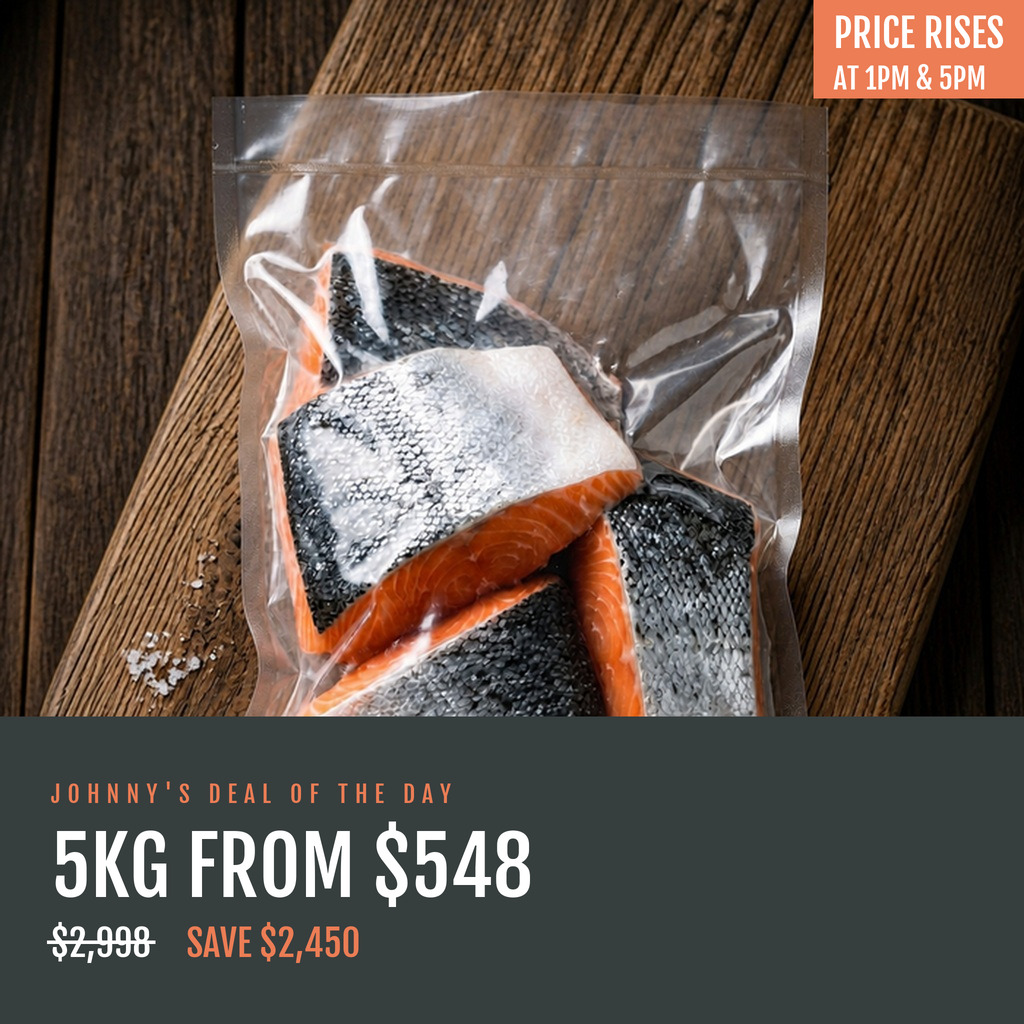
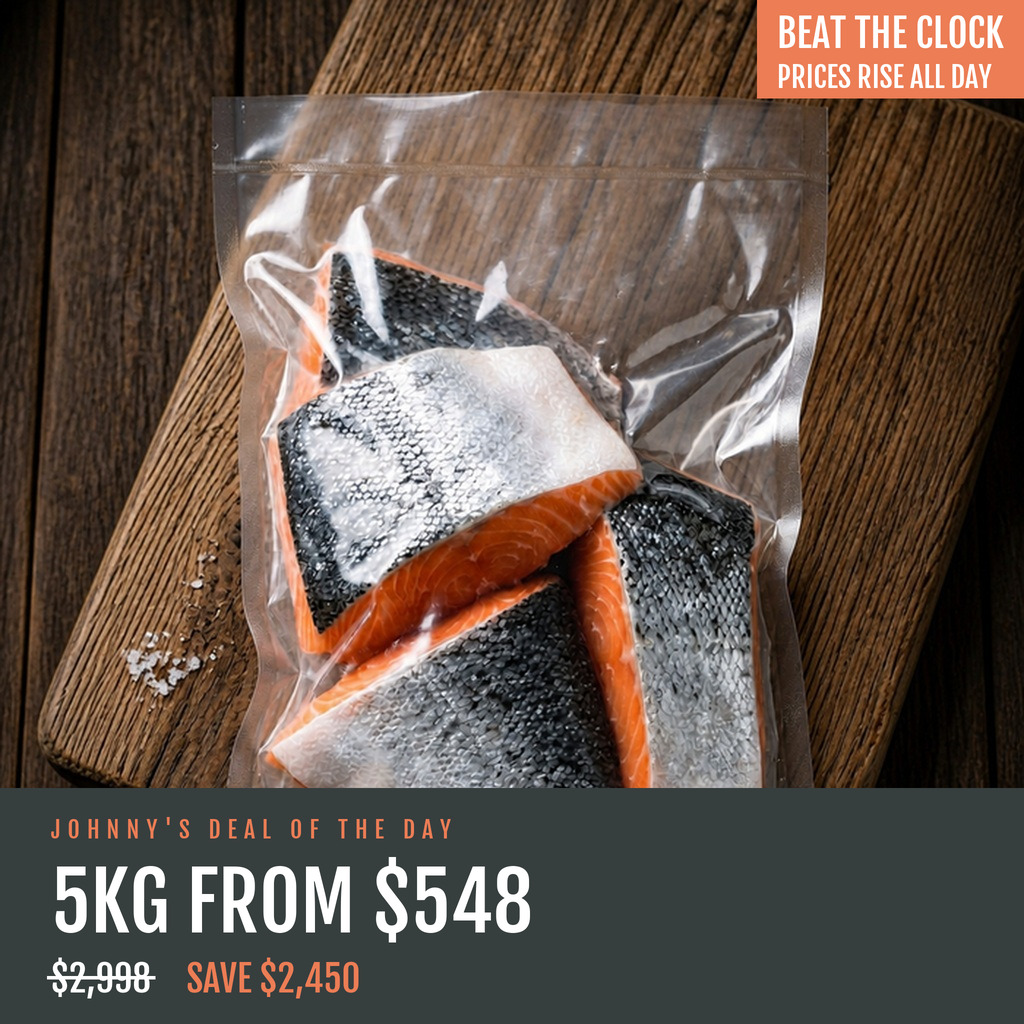
Update: heroes rebuilt so the product is the picture
Band cut from 30% to 23%, subject-aware crop so the product fills the
frame, and a guard that fails the build if a stale graphic lands in the
reserved corner. Bundle heroes now show every component. Beat the Clock
banners and stickers name the mechanic.

Changed region(s): [[0.0, 0.6875, 1.0, 0.9688], [0.7188, 0.0, 1.0, 0.0938]]

diff --git a/steak-king/johnnys-deal-planner.html b/steak-king/johnnys-deal-planner.html
@@ -574,7 +574,7 @@ const PLAN = {
                 "Straight from frozen into a hot pan skin side down, press it flat for the first minute, and leave it alone. Or cure a few pieces with salt, sugar and dill and you have your own gravlax by Thursday.",
                 "The clock is the point today. Every window you let pass costs you a hundred dollars."],
           close:"Back to $2,998 at midnight, whatever time you buy."},
-          source:'Frozen Norwegian Salmon Pieces - 1kg/5kg (5kg Box)', banner:['PRICE RISES AT 1PM on 5kg of Salmon'], clone:'5kg of Norwegian Salmon Pieces — the Price Rises at 1pm and Again at 5pm', price:'$548 → $648 → $748', compare:'$2,998'}
+          source:'Frozen Norwegian Salmon Pieces - 1kg/5kg (5kg Box)', banner:['BEAT THE CLOCK to save up to 81% on Salmon'], clone:'5kg of Norwegian Salmon Pieces — the Price Rises at 1pm and Again at 5pm', price:'$548 → $648 → $748', compare:'$2,998'}
       },
       '2026-09-07':{
         id:'sep-wagyu-ribeye-3kg', title:'3kg of Wagyu M4-5 Ribeye for $1,325', mech:'Quantity Flash', tag:'proven',
@@ -688,7 +688,7 @@ const PLAN = {
           note:["M3-4 is the sensible end of the wagyu range. Marbled enough to look like the photograph, not so rich that a single steak finishes your evening.",
                 "Fifty dollars a step, three steps, one day. The only decision left is whether you fancy this morning's price or this evening's."],
           close:"Back to $1,160 at midnight."},
-          source:'Chilled Rangers Station Black Angus M3-4 Ribeye 1kg', banner:["PRICE RISES AT 1PM on 1kg Angus Ribeye"], clone:'1kg Black Angus M3-4 Ribeye — the Price Rises at 1pm and Again at 5pm', price:'$448 → $498 → $548', compare:'$1,160'}
+          source:'Chilled Rangers Station Black Angus M3-4 Ribeye 1kg', banner:["BEAT THE CLOCK to save up to 61% on Ribeye"], clone:'1kg Black Angus M3-4 Ribeye — the Price Rises at 1pm and Again at 5pm', price:'$448 → $498 → $548', compare:'$1,160'}
       },
       '2026-09-15':{
         id:'sep-chateaubriand-3', title:'Buy Two Chateaubriands, Get the Third Free', mech:'Buy 2, Get 1 Free', tag:'proven',
@@ -795,7 +795,7 @@ const PLAN = {
           note:["This ran flat at $740 at the start of the month and sold. It is back at exactly the same opening price, except today the clock decides what you pay for it.",
                 "The fat cap does the cooking for you. Score it, salt it hard, fat side down first, then carve across the grain at the table and let everyone assume it was difficult. Get in early and it is the best value cut on the whole site."],
           close:"Back to $2,256 at midnight."},
-          source:'Chilled Wagyu M8-9 Rump Cap', banner:["PRICE RISES AT 1PM on the Whole Picanha"], clone:'Whole Wagyu M8-9 Picanha ~2kg — the Price Rises at 1pm and Again at 5pm', price:'$740 → $840 → $940', compare:'$2,256'}
+          source:'Chilled Wagyu M8-9 Rump Cap', banner:["BEAT THE CLOCK to save up to 67% on Picanha"], clone:'Whole Wagyu M8-9 Picanha ~2kg — the Price Rises at 1pm and Again at 5pm', price:'$740 → $840 → $940', compare:'$2,256'}
       },
       '2026-09-20':{
         id:'sep-wagyu-ribeye-hold-1', title:'3kg of Wagyu M4-5 Ribeye for $1,325 — Day One', mech:'Quantity Flash · Two-Day Hold', tag:'proven',
